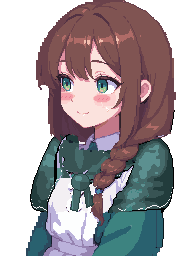
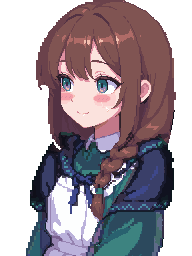
Mira's darkside, darkgrin and the shawl look redrawn whole at four times the size and registered again

diff --git a/game/art/manifest.js b/game/art/manifest.js
@@ -31,7 +31,7 @@ window.ART_MANIFEST = Object.assign({
   brute: { cell: 96, scale: 0.5, foot: 8, dirs: ['down', 'side', 'up'], anims: ['idle'] },
   boss: { cell: 128, scale: 0.5, foot: 8, dirs: ['down', 'side', 'up'], anims: ['idle'] },
   kol: { cell: 64, scale: 0.5, foot: 8, dirs: ['down', 'side', 'up'], anims: ['idle'], portrait: true, moods: ['smile', 'serious'] },
-  mira: { cell: 64, scale: 0.5, foot: 8, dirs: ['down', 'side', 'up'], anims: ['idle'], portrait: true, moods: ['serious', 'blank', 'shy', 'dark', 'darkflat', 'fake', 'smile', 'sad'] },      // darkgrin, darkside and the shawl look are being redrawn; until then those lines use the dark face, and the shawl is not offered
+  mira: { cell: 64, scale: 0.5, foot: 8, dirs: ['down', 'side', 'up'], anims: ['idle'], portrait: true, moods: ['serious', 'blank', 'shy', 'dark', 'darkflat', 'darkgrin', 'darkside', 'fake', 'smile', 'sad'], looks: { shawl: ['dark', 'darkflat', 'darkgrin', 'darkside', 'smile', 'shy'] } },
   jin: { cell: 64, scale: 0.5, foot: 8, dirs: ['down', 'side', 'up'], anims: ['idle'], portrait: true, moods: ['angry', 'serious', 'shy', 'laugh', 'panic', 'smug', 'teary', 'smile'], looks: { bun: ['smug', 'shy', 'teary'] } },
   wu: { cell: 64, scale: 0.5, foot: 8, dirs: ['down', 'side', 'up'], anims: ['idle'], portrait: true, moods: ['smile', 'surprised', 'worried'] },
   mog: { portrait: true, anims: [] },

diff --git a/game/art/NOTES.md b/game/art/NOTES.md
@@ -1,5 +1,18 @@
 # 出圖筆記
 
+## 第六輪：蜜拉 `darkside`、`darkgrin` 和披肩（整張重畫，不再小範圍拼接）
+
+三樣都重做並登記回 `manifest.js`（`moods` 加回 `darkgrin`、`darkside`，`looks: { shawl: [dark, darkflat, darkgrin, darkside, smile, shy] }`）。
+
+**流程**（三樣共用）：起始圖放大 4 倍（768 × 1024，最近鄰）→ 整張 img2img（強度 0.4–0.45，各 4 個種子）→ 和當初做立繪一樣，每 4 × 4 取最多的顏色縮回 192 × 256，對到她的色盤（必要時多留幾個新色）→ `pixel-clean.py` → 只留要改的那一塊，其他用 `portrait.png` 蓋回。去背只在她輪廓外面做：她虹膜的淺綠和綠色背景太像，在輪廓裡也去背的話虹膜會被挖洞（第一批就是這樣，改了之後四張都沒有洞）。
+
+- **`darkgrin`**：只寫提示詞、從一般那張出發，強度 0.42 和 0.45 各試 4 張，模型都把閉眼畫成往下彎的「睡著」弧線，不是 ^ ^。所以起始圖用上一輪那張已經畫好往上拱弧線的沒陰影臉，整張重畫（強度 0.4），挑種子 122。留下的是「整張臉」：皮膚、眼睛、嘴，外圍是頭髮，所以接縫都在頭髮邊上，不在皮膚中間。皮膚上模型留下的零星淺色點（一格和周圍八格多數不同的）換成周圍的顏色；兩眼外側模型畫的粉紅色下眼線和眼角殘色換成旁邊的膚色，閉眼兩側和旁邊皮膚同色。最後 `mira-shadow.py`（閉眼，虹膜框設成空的）。
+- **`darkside`**：起始圖是一般那張、只把虹膜往左移的沒陰影臉，整張重畫（強度 0.4），挑種子 131：一層睫毛、看向左邊、沒有接縫。同樣只留整張臉，清掉零星淺色點，`mira-shadow.py` 的虹膜框設成這張虹膜的位置。
+- **披肩**：只寫提示詞的話強度 0.45 加不上披肩，所以起始圖用舊的披肩，先把披肩換成比裙子暗兩階、偏藍的深藍綠，再整張重畫。第一批（強度 0.42）模型把胸前的結畫成棕色緞帶，縮小後變成一團帶白色高光的球（又像動物的頭）；第二批在起始圖上把結改成一條橫的布帶加兩條垂下來的布尾，反向提示詞加上棕色緞帶、蝴蝶結、球、高光，挑種子 152：深藍的披肩、布的皺褶陰影、下襬一道淺藍色波浪邊、胸前是同一塊藍布打的結。留下的範圍是舊披肩的輪廓外擴兩格加上所有披肩藍的格子，裡面的圍裙白、辮子、皮膚仍然用一般那張的；外緣幾顆背景綠的點換成旁邊的顏色。換色後 75 色，把最少用的 27 色併到最近的顏色，回到 48 色。六張表情是新的披肩下半身加上各表情 y 128 以上那一塊。
+- 色數：沒有陰影的（`portrait-shawl`、`shawl_smile`、`shawl_shy`）都是 48 色；有陰影的照 `mira-shadow.py` 的結果，超過 48 色（和 `dark` 一樣）。
+
+自己覺得不夠好的：`darkgrin` 的閉眼線比較平，往上拱得不明顯；模型重畫的臉比一般那張少一點細節（臉頰的紅暈比較淡）。披肩的顏色偏深藍，比規格的「深藍綠」藍一些；胸前左邊露出的是模型畫的綠色衣領。
+
 ## 第五輪之後：蜜拉 `darkside`、`darkgrin` 重新生成（用模型）
 
 照 README「第五輪之後的決定」和使用者「要求用模型重做」：先做沒有陰影的臉（表情交給模型），再用 `tools/mira-shadow.py` 蓋陰影。四張（含 `shawl_darkside`、`shawl_darkgrin`）都換掉了，`dark`、`darkflat`、`smile` 沒動。
